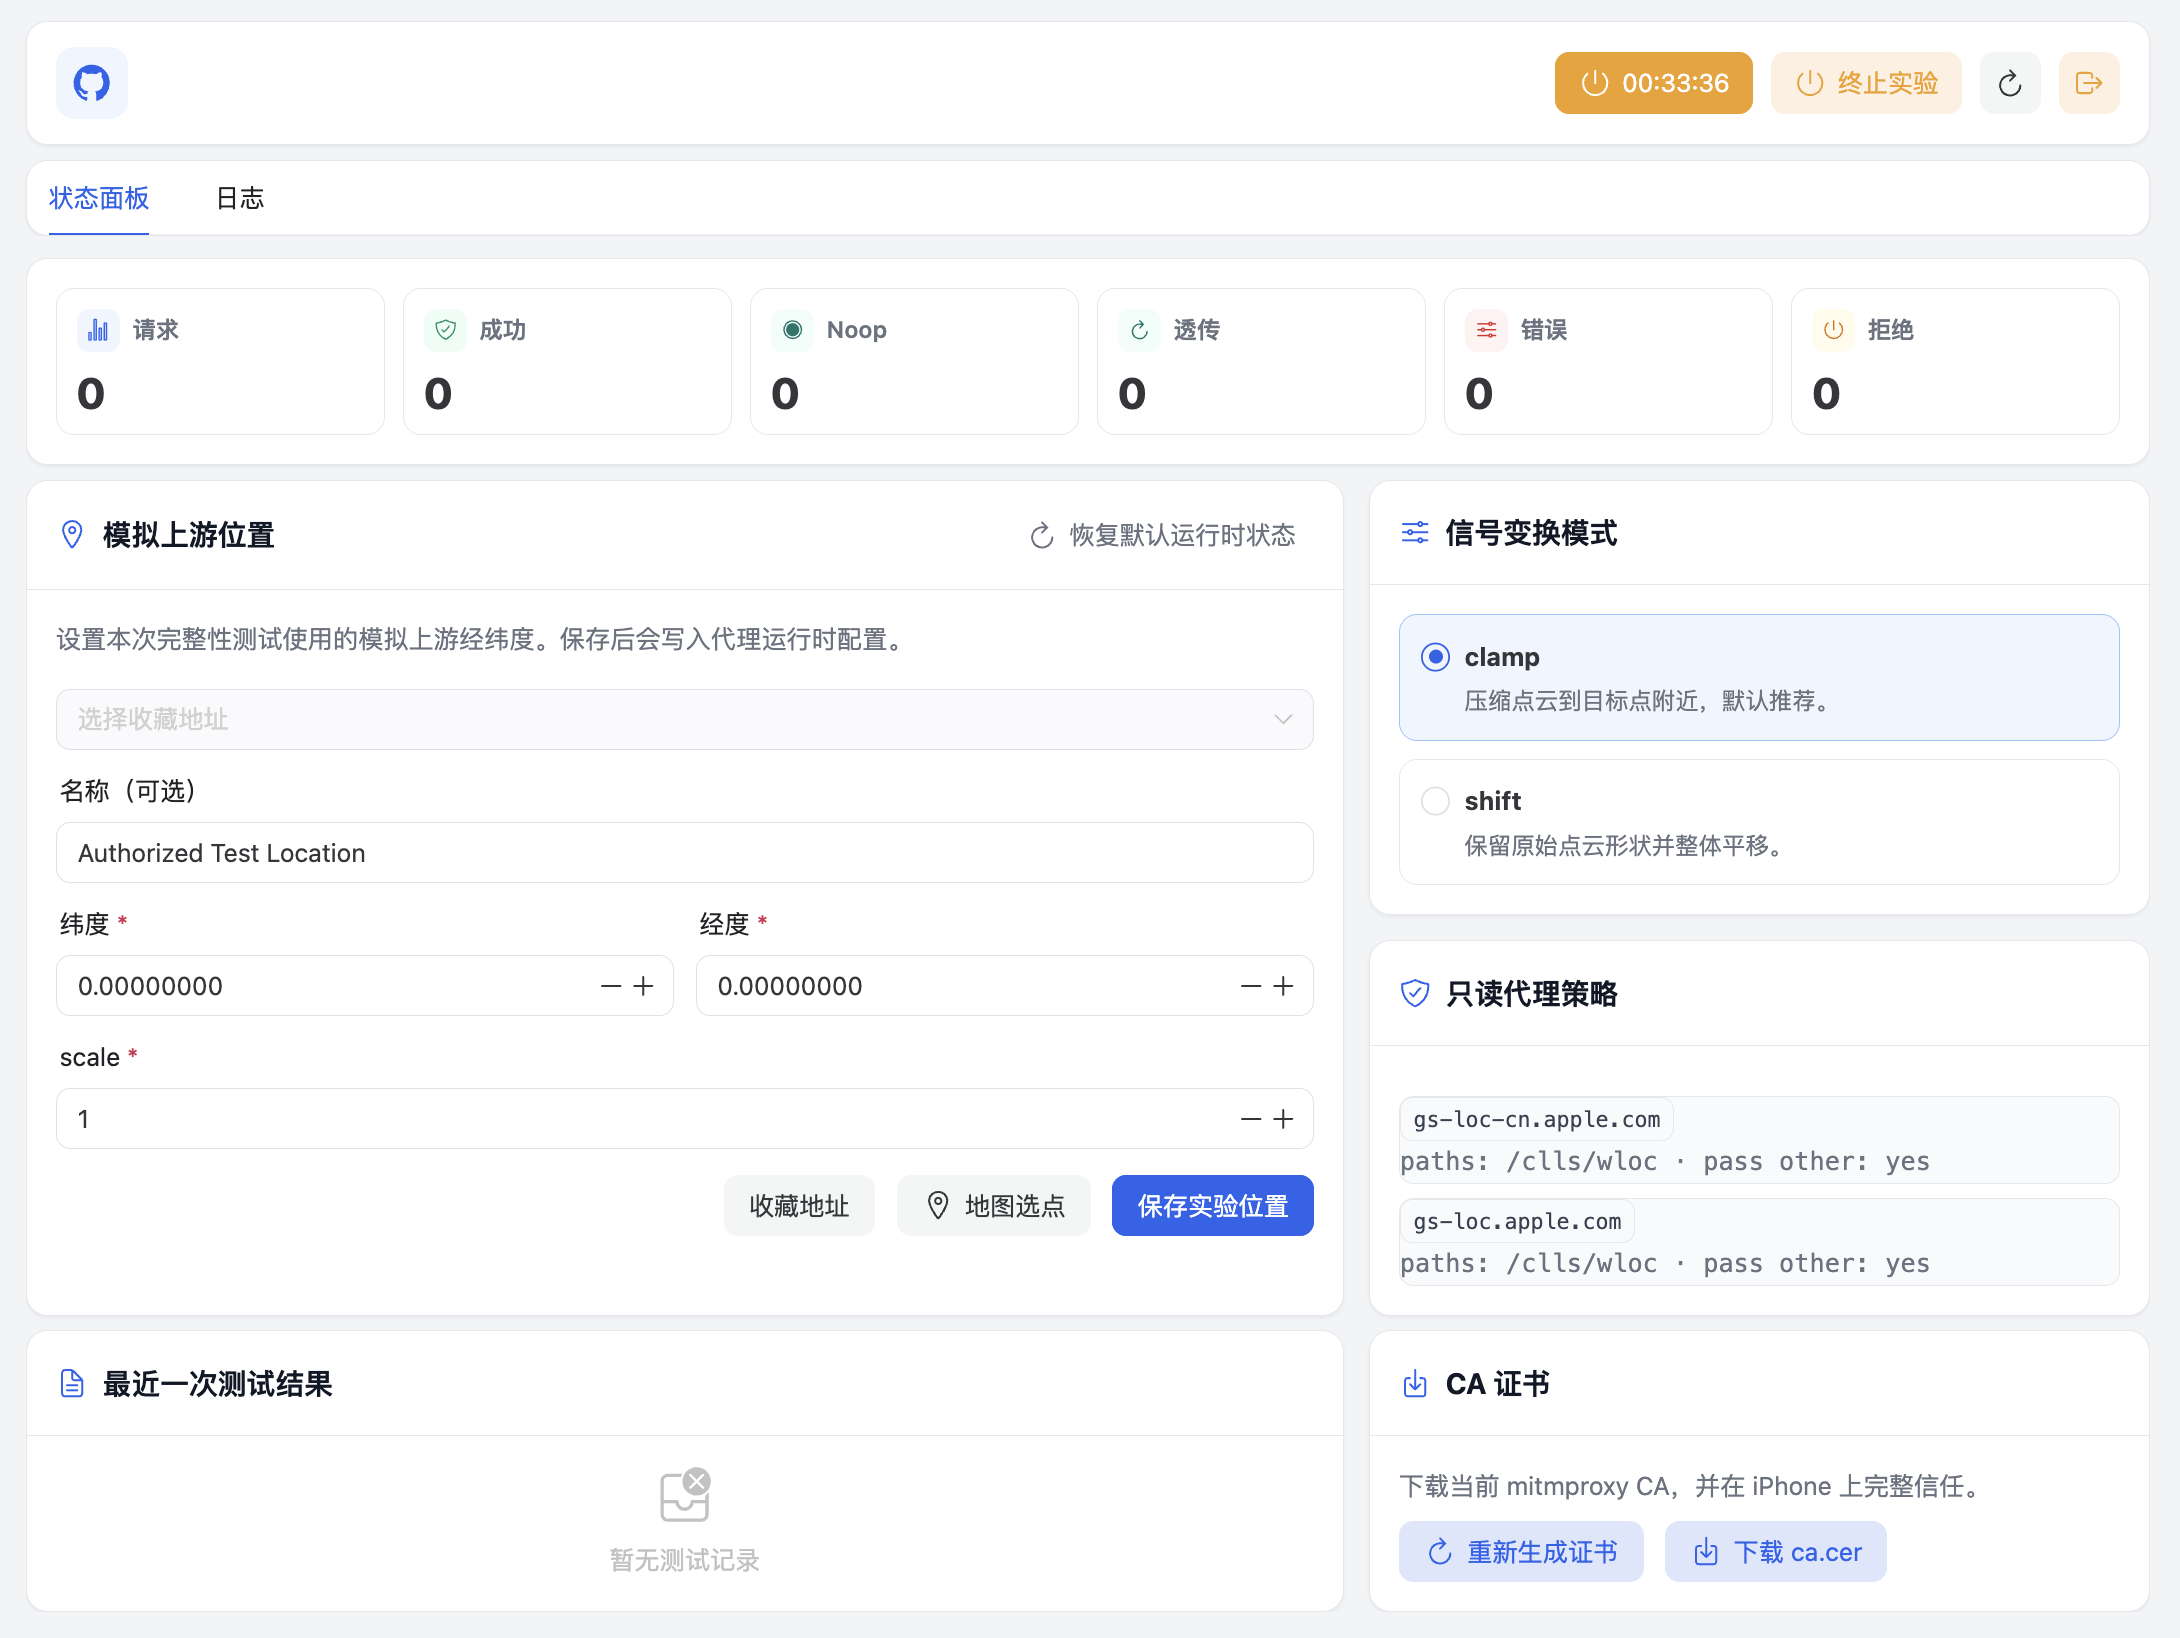
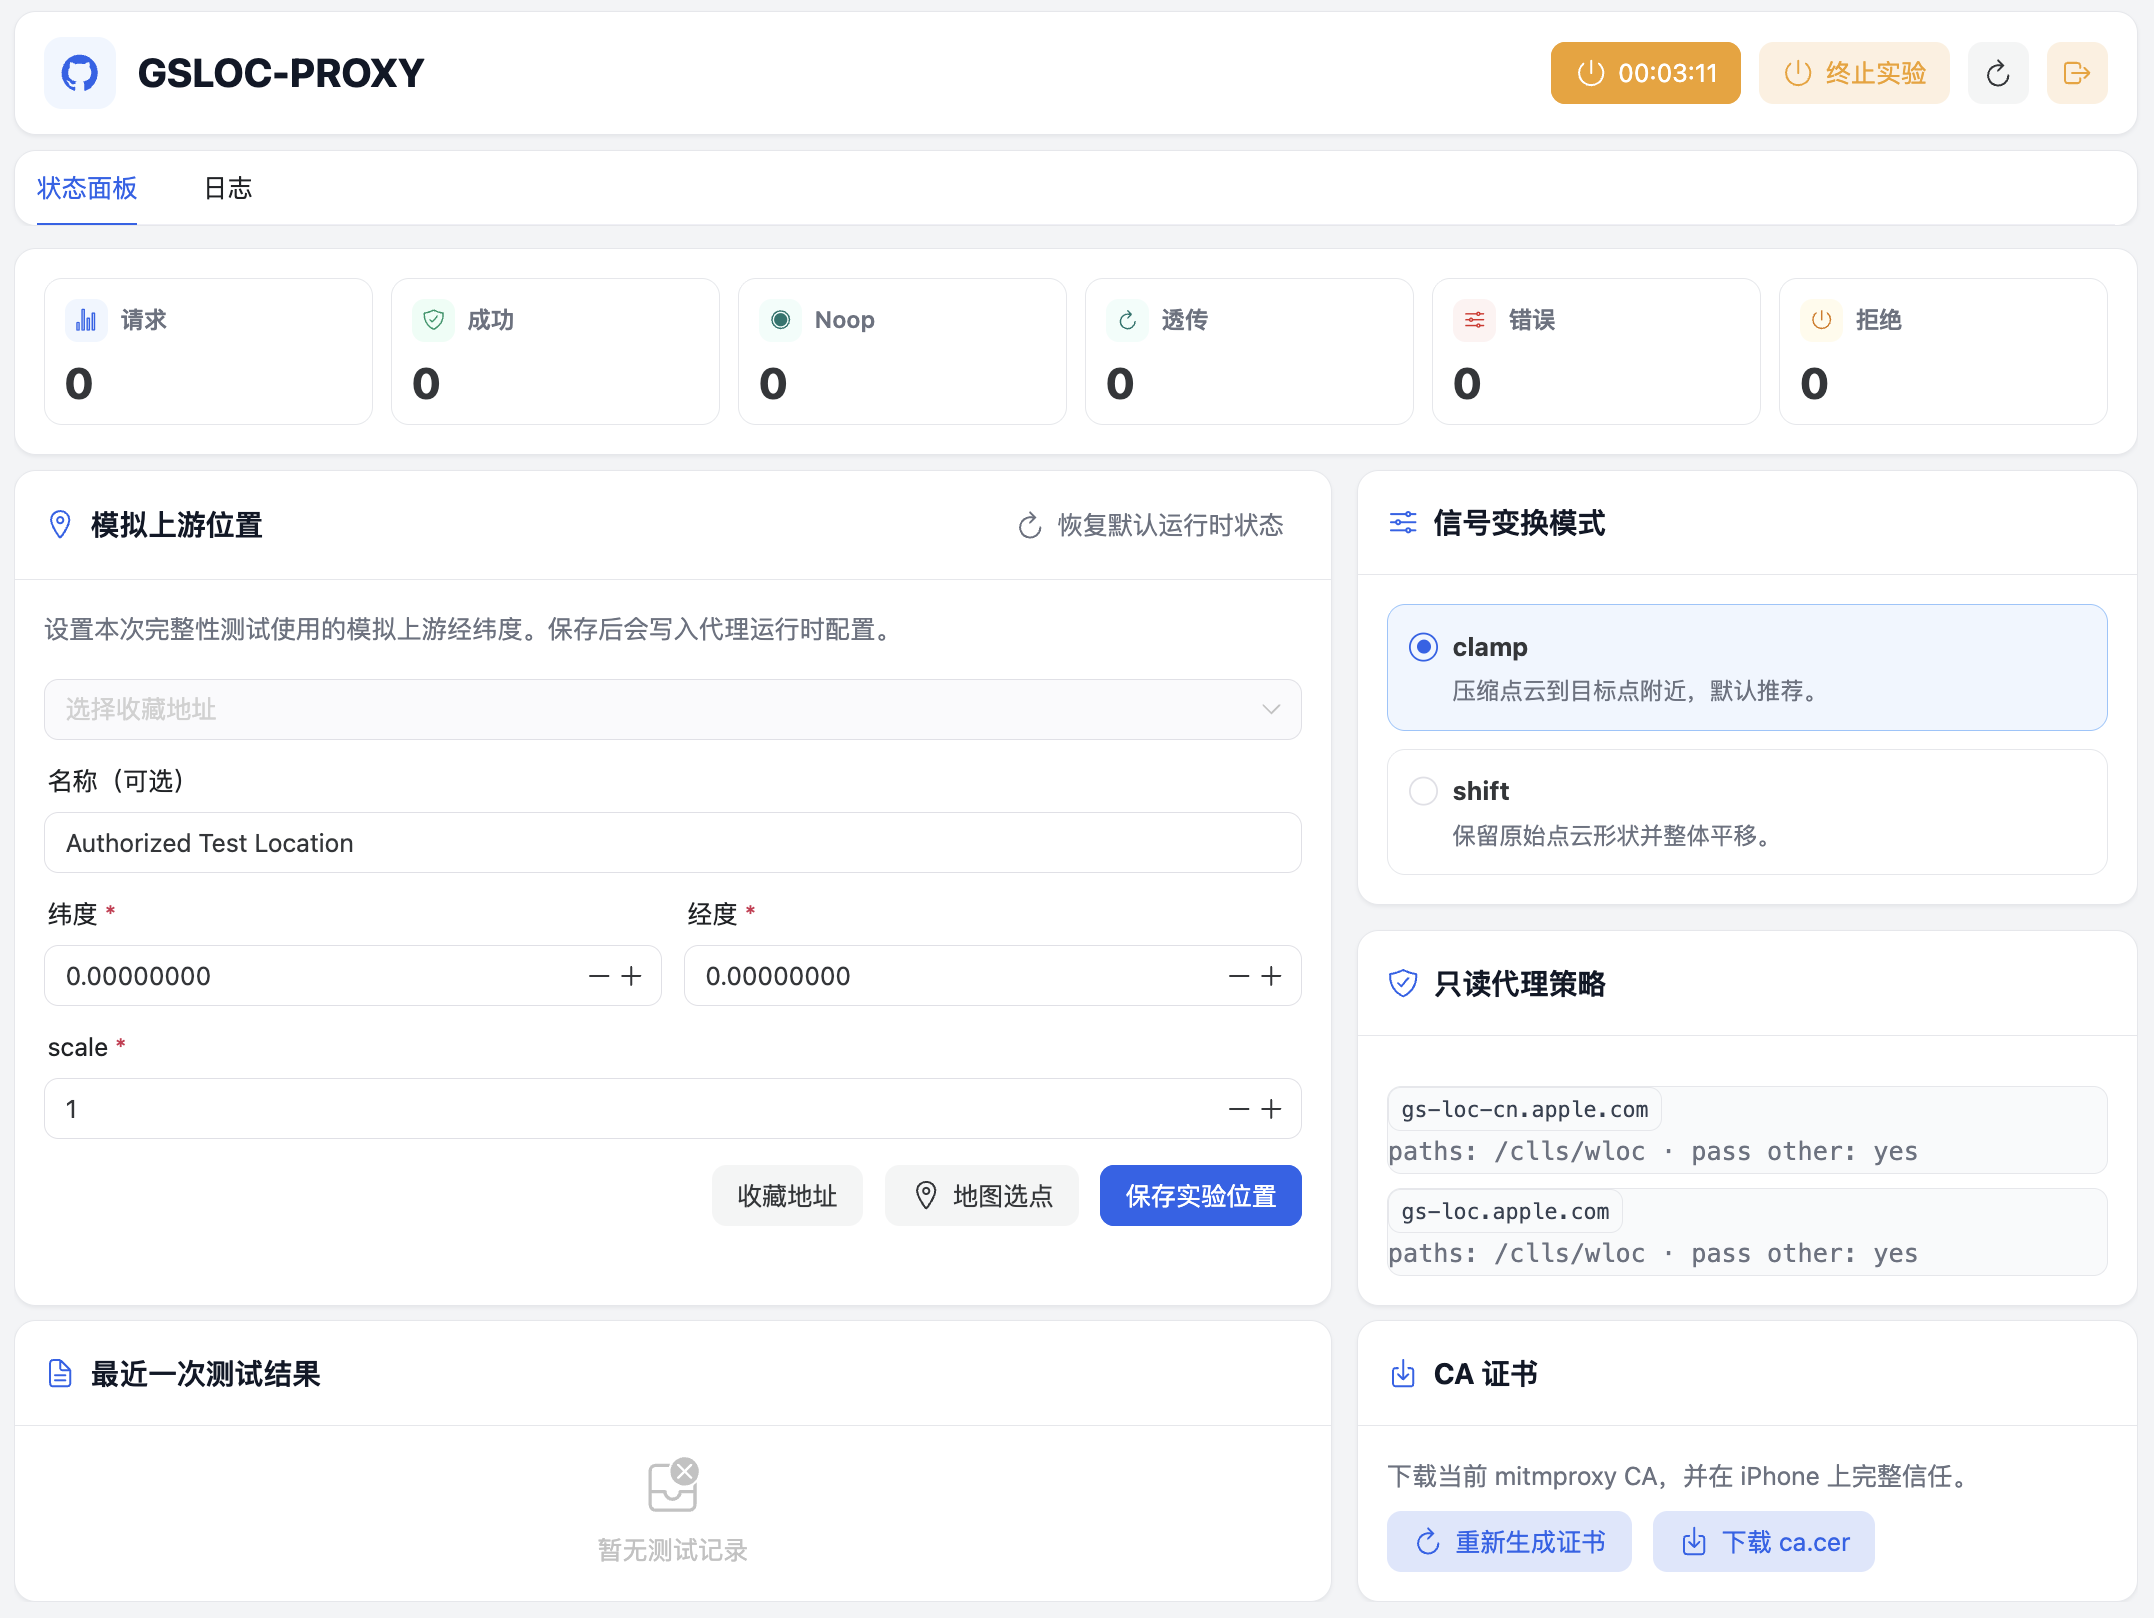
feat: update README and enhance AppHeader with brand title styling

diff --git a/web/src/style.css b/web/src/style.css
@@ -153,6 +153,19 @@ body {
   display: block;
 }
 
+.header-main .brand-title {
+  min-width: 0;
+  margin: 0;
+  overflow: hidden;
+  color: var(--text-main);
+  font-size: 22px;
+  font-weight: 760;
+  letter-spacing: 0;
+  line-height: 1.1;
+  text-overflow: ellipsis;
+  white-space: nowrap;
+}
+
 .header-copy {
   min-width: 0;
 }
@@ -812,6 +825,10 @@ body {
     font-size: 21px;
   }
 
+  .header-main .brand-title {
+    font-size: 20px;
+  }
+
   .header-main h1 {
     font-size: 22px;
   }
@@ -834,6 +851,12 @@ body {
 
   .summary-metrics {
     grid-template-columns: repeat(3, minmax(0, 1fr));
+  }
+}
+
+@media (max-width: 680px) {
+  .header-main .brand-title {
+    display: none;
   }
 }
 

diff --git a/web/src/components/AppHeader.vue b/web/src/components/AppHeader.vue
@@ -66,6 +66,7 @@ const proxyButtonLabel = computed(() => {
       >
         <n-icon :component="LogoGithub" />
       </a>
+      <h1 class="brand-title">GSLOC-PROXY</h1>
     </div>
     <n-space class="header-actions" align="center" :size="10">
       <n-button

diff --git a/README.zh-CN.md b/README.zh-CN.md
@@ -1,8 +1,8 @@
-![GSLOC-PROXY](docs/img/image.png)
-
 # GSLOC-PROXY
 
 `GSLOC-PROXY` 是一个用于授权实验环境的网络层定位完整性测试代理。它帮助移动应用开发者、安全研究者和风控团队复现一种特定威胁模型：应用本身没有被 Hook、注入或使用系统模拟定位，但系统定位依赖的上游网络信号在受控实验网络中被修改。
+
+![GSLOC-PROXY](docs/img/image.png)
 
 本项目的重点不是证明“定位可以被修改”，而是帮助开发者验证自己的应用是否过度信任系统定位结果，以及是否具备足够的多源校验、风险评分和异常处理能力。
 